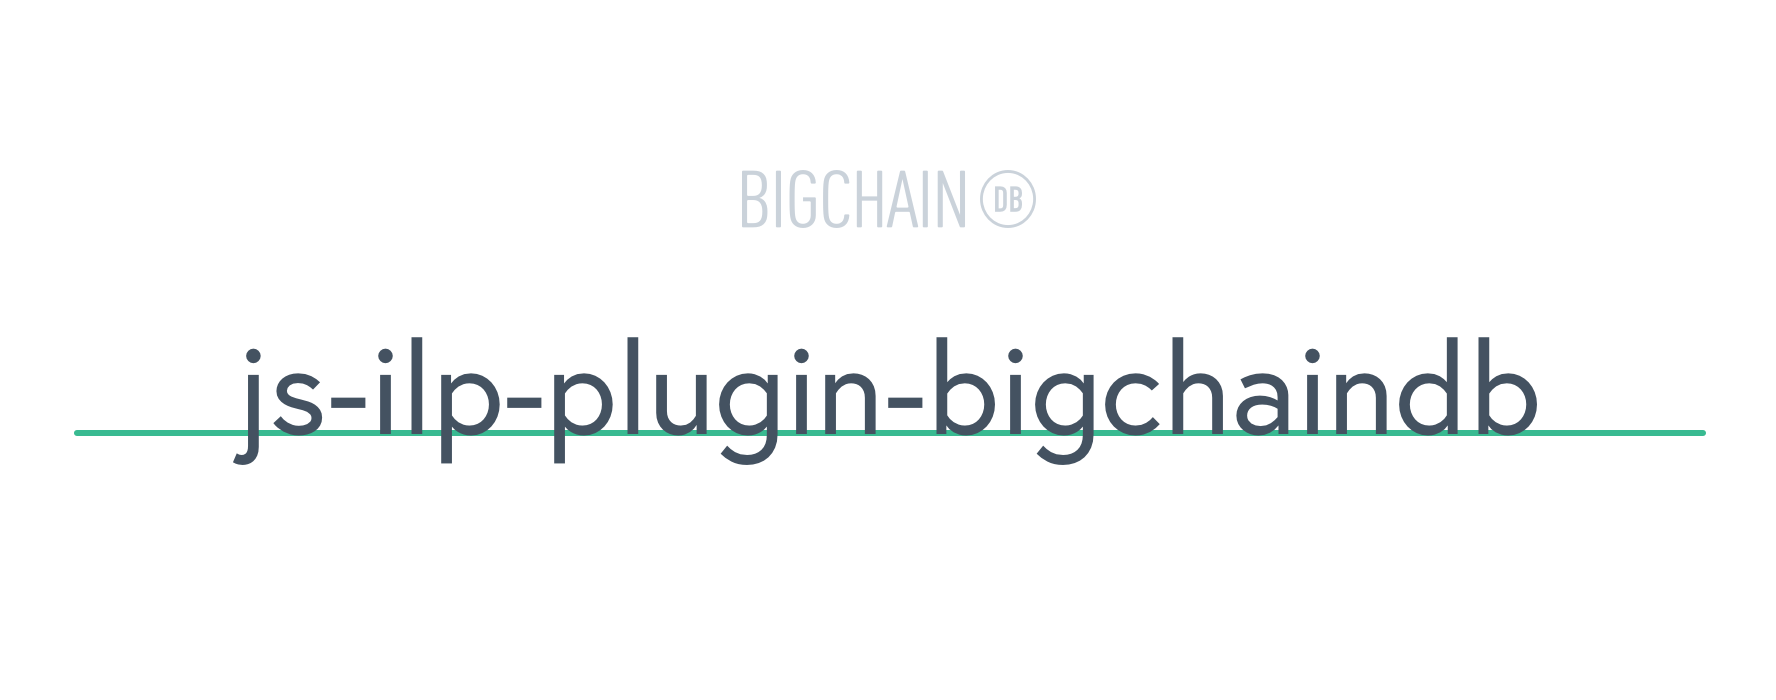
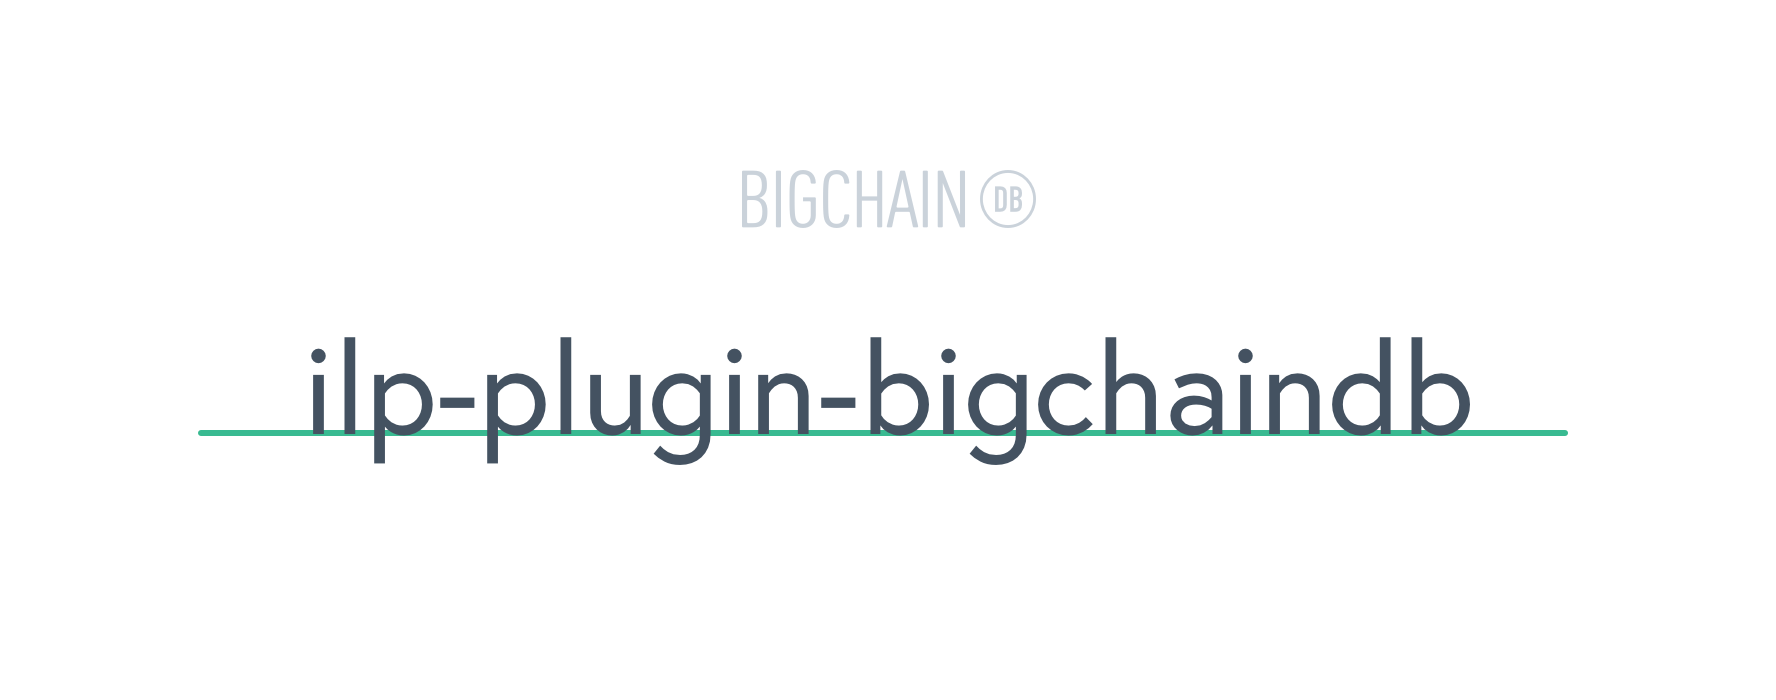
rename repo, remove node/browser distinction, update urls

Changed region(s): [[0.031, 0.48, 0.96, 0.66]]

diff --git a/README.md b/README.md
@@ -1,4 +1,4 @@
-# [![js-ilp-plugin-bigchaindb](media/repo-banner@2x.png)](https://www.bigchaindb.com)
+# [![ilp-plugin-bigchaindb](media/repo-banner@2x.png)](https://www.bigchaindb.com)
 
 > ILP ledger plugin for [BigchainDB](https://github.com/bigchaindb/bigchaindb)
 
@@ -13,33 +13,23 @@ npm install ilp-plugin-bigchaindb
 
 ## Usage
 
-### Node
-
-Use the CommonJS export (also the default package export):
-
-```js
-const BigchainDBLedgerPlugin = require('ilp-plugin-bigchaindb')
-```
-
-### Browser
-
 Depending on your build system and preferences, you can use any of the following exports:
 
-#### CommonJS (default package export)
+### CommonJS (default package export)
 
 ```js
 const BigchainDBLedgerPlugin = require('ilp-plugin-bigchaindb')
 ```
 
-#### ES6 modules
+### ES6 modules
 
 ```js
 import BigchainDBLedgerPlugin from 'ilp-plugin-bigchaindb/es6'
 ```
 
-#### Bundled version (UMD export)
+### Bundled version (UMD export)
 
-add `/bundle/bundle.min.js` to your HTML and use `window.BigchainDBLedgerPlugin`:
+Add `/bundle/bundle.min.js` to your HTML and use `window.BigchainDBLedgerPlugin`:
 
 ```html
 <script src="/bundle/bundle.min.js"></script>
